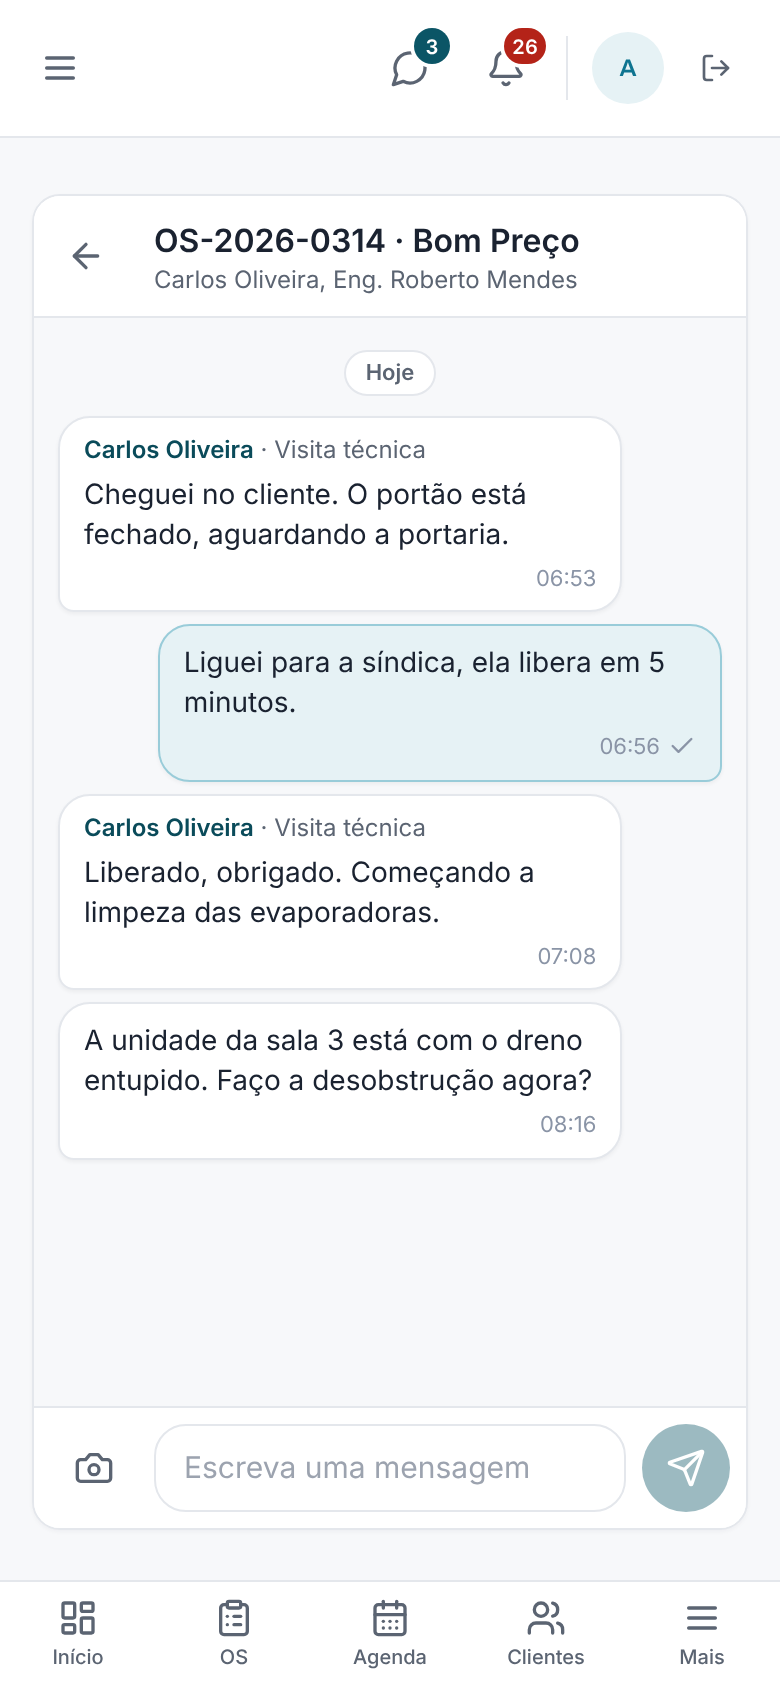
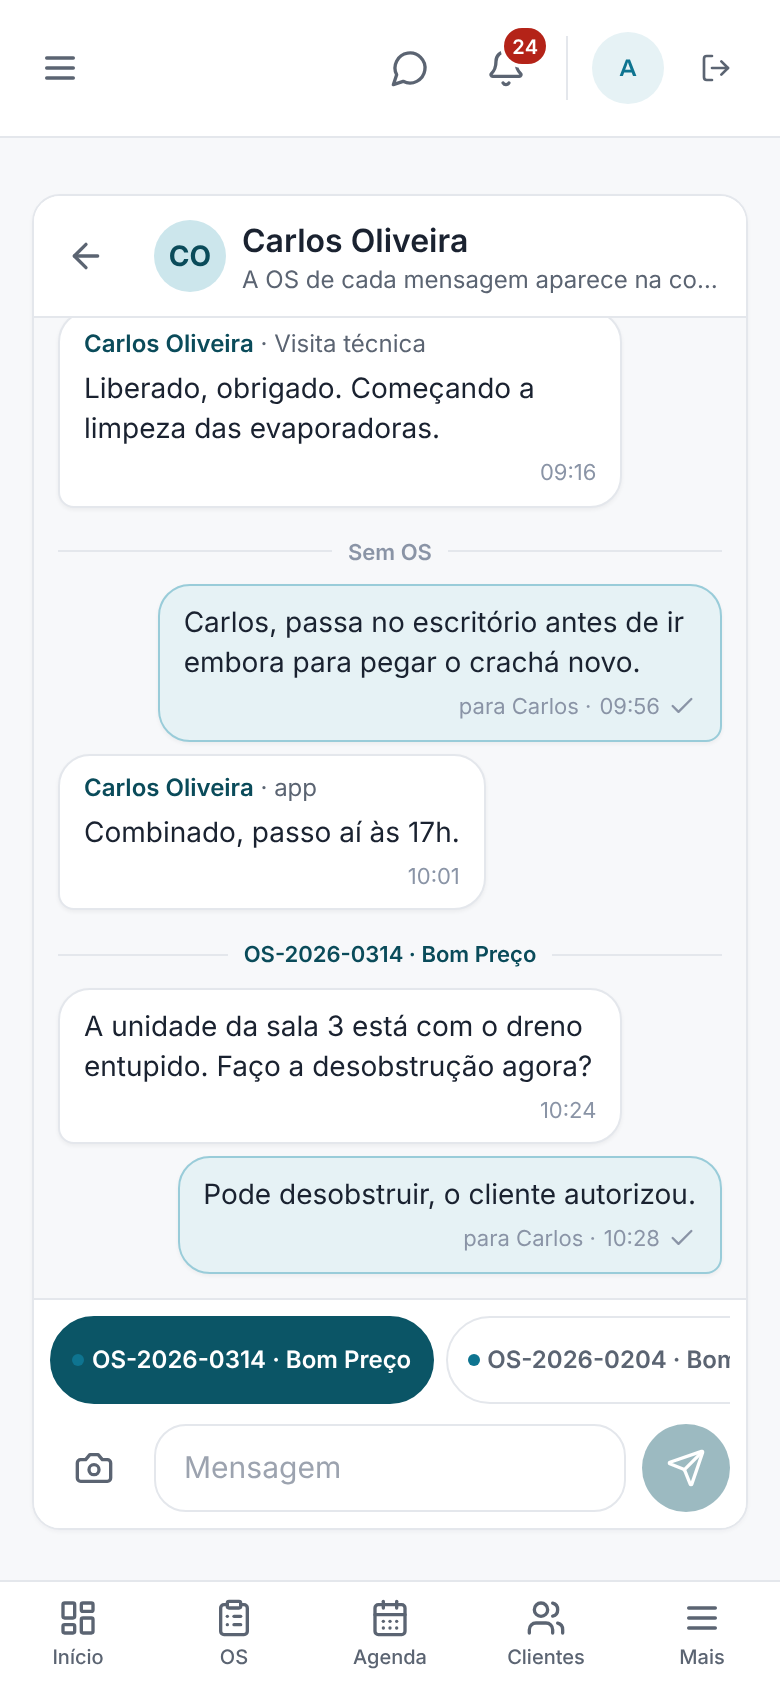
CHAT-1: conversa no celular cabe na tela; prints depois no formato por pessoa
A grade da tela Conversas não tinha coluna definida no celular e a fila de OS
esticava a conversa para fora da tela. O campo de texto diz só "Mensagem",
que cabe no cartão da OS.

Claude-Session: https://claude.ai/code/session_01HN9Duu88VB3ULSWg7bjoin

diff --git a/components/chat/conversa.tsx b/components/chat/conversa.tsx
@@ -18,7 +18,7 @@ export interface EnvioMensagem { texto: string; foto?: string; miniatura?: strin
  * computador). Quem envia de fato é a tela (`onEnviar`): o escritório pela rota; o app pela fila do aparelho.
  */
 export function ConversaChat({
-  mensagens, carregando, erro, somenteLeitura, podeEscrever = true, semPermissao, onEnviar, urlFoto, onTentarDeNovo, className, placeholder = "Escreva uma mensagem",
+  mensagens, carregando, erro, somenteLeitura, podeEscrever = true, semPermissao, onEnviar, urlFoto, onTentarDeNovo, className, placeholder = "Mensagem",
   mostrarOs = false, abrirOs, podeAbrirOs, acimaDoTexto,
 }: {
   /** Esta etiqueta abre a OS? (app: só a OS em que o técnico tem atividade); sem isso, todas abrem quando há abrirOs */

diff --git a/components/chat/conversas-escritorio.tsx b/components/chat/conversas-escritorio.tsx
@@ -118,7 +118,7 @@ export function ConversasEscritorio({ pessoaInicial, osInicial, podeEscrever, po
           </div>
         )}
       </div>
-      <div className="card p-0 overflow-hidden grid lg:grid-cols-[22rem_1fr] h-[calc(100dvh-11rem)] min-h-[28rem]">
+      <div className="card p-0 overflow-hidden grid grid-cols-1 lg:grid-cols-[22rem_minmax(0,1fr)] h-[calc(100dvh-11rem)] min-h-[28rem]">
         {/* Lista */}
         <aside className={cn("flex flex-col min-h-0 border-r border-surface-border", aberta && "hidden lg:flex")} data-lista-conversas>
           <div className="p-3 space-y-2 border-b border-surface-border">
